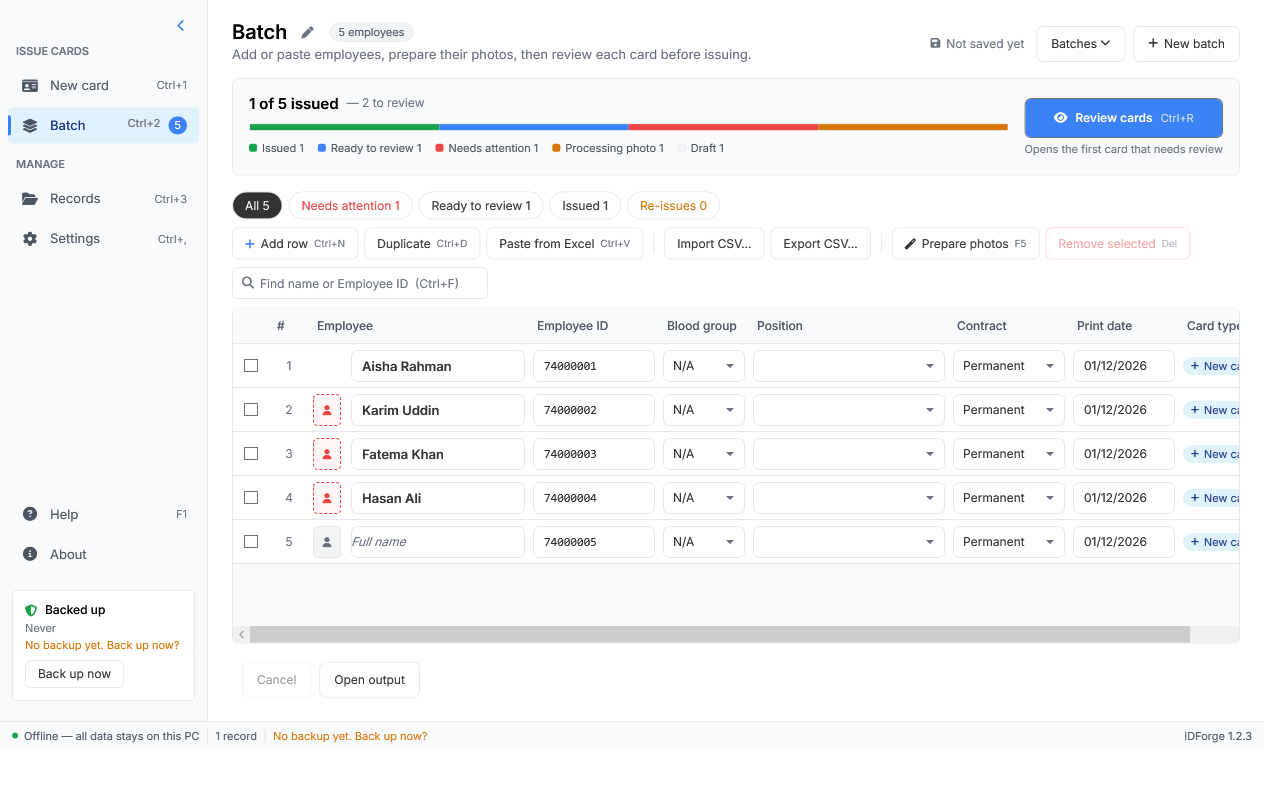
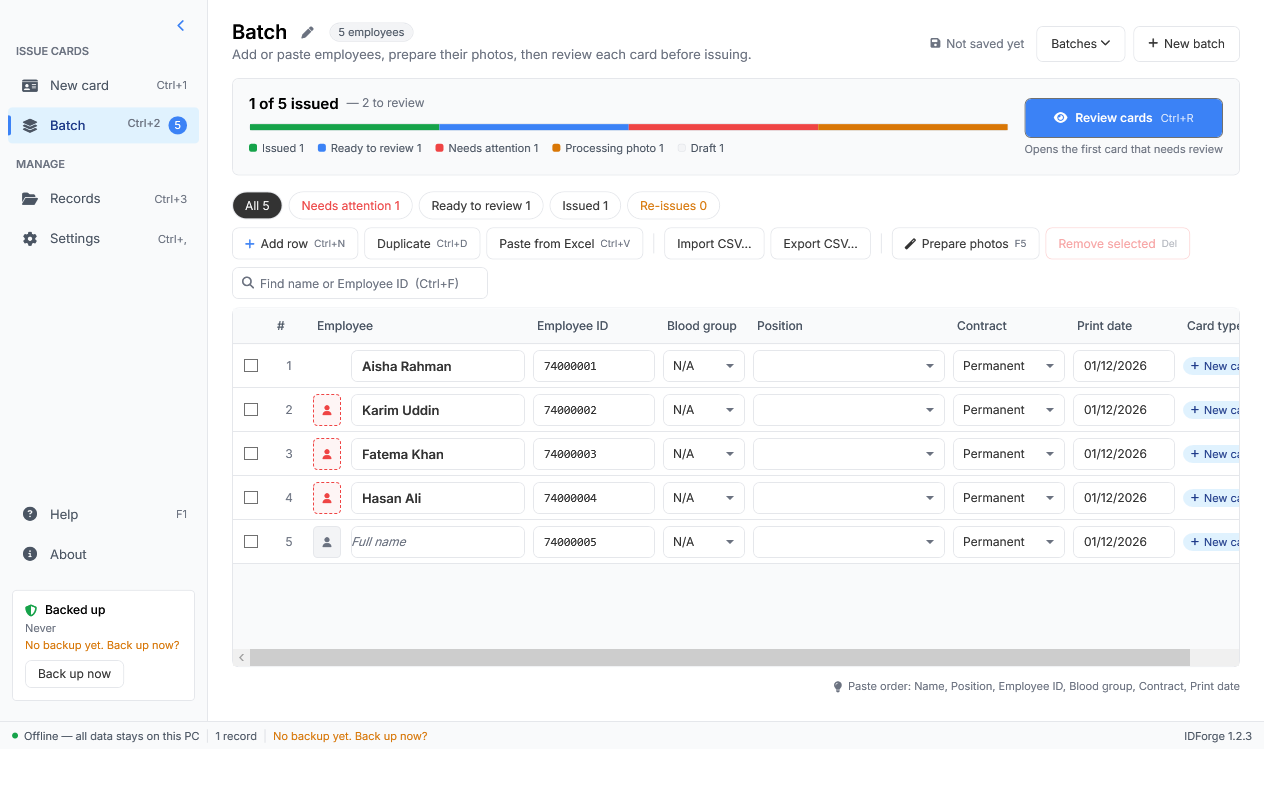
Batch parity D: footer, status-bar photo progress, responsive stacking
- Footer: "Showing N of M · K selected" only while filter/search active,
  paste-order tip on the right; cancel/open-output/progress moved out
- Status bar: "Preparing photos: N of M" + spinner + cancel during photo prep
- Progress card stacks Review under counts below 1100 px (UpdateBatchProgressLayout)
- New test Batch_Footer_StatusBar_And_Responsive + batch-footer-860x620.png

Generated with [Devin](https://devin.ai)

Changed region(s): [[0.1875, 0.7919, 0.9688, 0.8832]]

diff --git a/src/IDForge/MainWindow.xaml b/src/IDForge/MainWindow.xaml
@@ -1205,8 +1205,18 @@
                     <Border Grid.Row="1" x:Name="PnlBatchProgress" Margin="24,0,24,16" Padding="16"
                             CornerRadius="6" Background="{StaticResource PanelLightBrush}"
                             BorderBrush="{StaticResource BorderBrush}" BorderThickness="1">
-                        <DockPanel>
-                            <StackPanel DockPanel.Dock="Right" VerticalAlignment="Center" Margin="16,0,0,0">
+                        <Grid x:Name="GridBatchProgress">
+                            <Grid.RowDefinitions>
+                                <RowDefinition Height="Auto"/>
+                                <RowDefinition Height="Auto"/>
+                            </Grid.RowDefinitions>
+                            <Grid.ColumnDefinitions>
+                                <ColumnDefinition Width="*"/>
+                                <ColumnDefinition Width="Auto"/>
+                            </Grid.ColumnDefinitions>
+                            <StackPanel x:Name="PnlBatchReview" Grid.Column="1"
+                                        VerticalAlignment="Center" Margin="16,0,0,0"
+                                        HorizontalAlignment="Right">
                                 <Button x:Name="BtnReview" Style="{StaticResource PrimaryButton}"
                                         Click="BatchReview_Click">
                                     <StackPanel Orientation="Horizontal">
@@ -1221,7 +1231,7 @@
                                            FontSize="11" Foreground="{StaticResource MutedBrush}"
                                            HorizontalAlignment="Right" Margin="0,4,0,0"/>
                             </StackPanel>
-                            <StackPanel>
+                            <StackPanel x:Name="PnlCountsBlock" Grid.Row="0" Grid.Column="0">
                                 <StackPanel Orientation="Horizontal" VerticalAlignment="Bottom">
                                     <TextBlock x:Name="TxtIssuedCount" Text="No rows yet" FontSize="15"
                                                FontWeight="SemiBold"/>
@@ -1246,7 +1256,7 @@
                                 </Border>
                                 <WrapPanel x:Name="PnlBatchLegend" Margin="0,10,0,0"/>
                             </StackPanel>
-                        </DockPanel>
+                        </Grid>
                     </Border>
 
                     <!-- compat status line (old bottom bar text) -->
@@ -1586,14 +1596,23 @@
                         </DataGrid.Columns>
                     </DataGrid>
                     </Border>
-                    <StackPanel Grid.Row="5" Orientation="Horizontal" Margin="8,6,8,4" VerticalAlignment="Center">
+                    <!-- ===== BATCH FOOTER (§2.9) ===== -->
+                    <Grid Grid.Row="5" Margin="24,0,24,8">
+                        <Grid.ColumnDefinitions>
+                            <ColumnDefinition Width="*"/>
+                            <ColumnDefinition Width="Auto"/>
+                        </Grid.ColumnDefinitions>
                         <TextBlock x:Name="TxtBatchShowing" VerticalAlignment="Center" FontSize="12"
-                                   Foreground="{StaticResource SecondaryTextBrush}" Margin="0,0,12,0"/>
-                        <Button Content="Cancel" Click="BatchCancel_Click" Margin="14,0,0,0" IsEnabled="False" x:Name="BtnBatchCancel"/>
-                        <Button Content="Open output" Click="BatchOpenOutput_Click" Margin="8,0,0,0"/>
-                        <ProgressBar x:Name="BatchProgress" Width="200" Height="14" Margin="16,0,0,0"
-                                     Minimum="0" Maximum="100" Visibility="Collapsed"/>
-                    </StackPanel>
+                                   Foreground="{StaticResource SecondaryTextBrush}"/>
+                        <StackPanel Grid.Column="1" Orientation="Horizontal" VerticalAlignment="Center">
+                            <TextBlock Text="&#xF0EB;" FontFamily="{StaticResource IconFont}" FontSize="11"
+                                       Foreground="{StaticResource MutedBrush}" Margin="0,0,6,0"
+                                       VerticalAlignment="Center"/>
+                            <TextBlock Text="Paste order: Name, Position, Employee ID, Blood group, Contract, Print date"
+                                       FontSize="11" Foreground="{StaticResource MutedBrush}"
+                                       VerticalAlignment="Center"/>
+                        </StackPanel>
+                    </Grid>
                     <TextBlock x:Name="TxtBatchLog" Grid.Row="6" Margin="8,0,8,6" Foreground="{StaticResource MutedBrush}"
                                TextWrapping="Wrap" FontSize="11"/>
                 </Grid>
@@ -1885,6 +1904,24 @@
                                 Content="&#x2715;" FontSize="11" Height="20" Width="22" Padding="0"
                                 Margin="4,0,0,0" VerticalAlignment="Center"
                                 Visibility="Collapsed" Click="StatusMsgClose_Click"/>
+                    </StackPanel>
+                    <!-- §2.9/D10: photo preparation progress lives in the status bar -->
+                    <StackPanel x:Name="PnlStatusPhotos" Orientation="Horizontal"
+                                Visibility="Collapsed" Margin="10,0,0,0">
+                        <TextBlock Text="  |  " Foreground="{StaticResource BorderBrush}" FontSize="11"/>
+                        <TextBlock x:Name="TxtStatusSpinner" Text="&#xF110;" FontFamily="{StaticResource IconFont}" FontSize="11"
+                                   Foreground="{StaticResource WarningBrush}"
+                                   VerticalAlignment="Center" Margin="0,0,6,0">
+                            <TextBlock.RenderTransform>
+                                <RotateTransform CenterX="5.5" CenterY="5.5"/>
+                            </TextBlock.RenderTransform>
+                        </TextBlock>
+                        <TextBlock x:Name="TxtStatusPhotos" Text="Preparing photos: 0 of 0"
+                                   VerticalAlignment="Center" FontSize="11"
+                                   Foreground="{StaticResource SecondaryTextBrush}"/>
+                        <Button x:Name="BtnCancelPhotos" Content="Cancel" Click="BatchCancel_Click"
+                                Style="{StaticResource GhostButton}" FontSize="11" Height="20"
+                                Padding="8,0" Margin="8,0,0,0" VerticalAlignment="Center"/>
                     </StackPanel>
                 </StackPanel>
             </DockPanel>

diff --git a/tests/IDForge.Tests/BatchParityTests.cs b/tests/IDForge.Tests/BatchParityTests.cs
@@ -746,4 +746,82 @@ public class BatchParityTests
             finally { SettleThenClose(win2); }
         });
     }
+
+    [Fact]
+    public void Batch_Footer_StatusBar_And_Responsive()
+    {
+        WpfSta.Run(() =>
+        {
+            // 860x620: footer inside window, progress card stacks review below counts,
+            // status-bar photo progress hidden, footer shot saved.
+            var win = NewShownBatch(860, 620);
+            try
+            {
+                AddRow(win, "75000011", "Nusrat Jahan", "NeedsReview");
+                AddRow(win, "75000012", "Tanvir Hasan", "Failed");
+                win.UpdateBatchSummary();
+                win.UpdateLayout();
+
+                foreach (var name in new[] { "TxtBatchShowing", "PnlStatusPhotos" })
+                {
+                    var el = win.FindName(name) as FrameworkElement;
+                    Assert.True(el != null, $"{name} missing");
+                }
+
+                // Stacked progress card: review panel sits below the counts block.
+                var review = win.FindName("PnlBatchReview") as FrameworkElement;
+                var counts = win.FindName("PnlCountsBlock") as FrameworkElement;
+                Assert.True(review != null && counts != null, "progress card panels missing");
+                var rReview = OnScreenRect(review!, win);
+                var rCounts = OnScreenRect(counts!, win);
+                Assert.True(rReview.Top >= rCounts.Bottom - 1,
+                    $"review should stack below counts at 860: {rReview} vs {rCounts}");
+
+                // Footer: no showing text until a filter/search is active.
+                var showing = win.FindName("TxtBatchShowing") as TextBlock;
+                Assert.Equal("", showing!.Text);
+                var chip = win.FindName("ChkFilterAttention") as RadioButton;
+                chip!.IsChecked = true;
+                win.UpdateLayout();
+                Assert.Contains("Showing 1 of 2", showing.Text);
+                Assert.Contains("Needs attention", chip.Content!.ToString());
+
+                (win.FindName("ChkFilterAll") as RadioButton)!.IsChecked = true;
+                win.UpdateLayout();
+                Assert.Equal("", showing.Text);
+                Directory.CreateDirectory(ShotsDir());
+                SaveWindow(win, Path.Combine(ShotsDir(), "batch-footer-860x620.png"));
+            }
+            finally { SettleThenClose(win); }
+
+            // 1280x800: progress card side-by-side (review right of counts).
+            var win2 = NewShownBatch(1280, 800);
+            try
+            {
+                AddRow(win2, "75000021", "Aisha Rahman", "NeedsReview");
+                win2.UpdateBatchSummary();
+                win2.UpdateLayout();
+                var review2 = win2.FindName("PnlBatchReview") as FrameworkElement;
+                var counts2 = win2.FindName("PnlCountsBlock") as FrameworkElement;
+                var rR = OnScreenRect(review2!, win2);
+                var rC = OnScreenRect(counts2!, win2);
+                Assert.True(rR.Left > rC.Left || rR.Top < rC.Top,
+                    "progress card should be side-by-side at 1280");
+                Assert.True(rR.Top <= rC.Bottom, "review should overlap counts row at 1280");
+            }
+            finally { SettleThenClose(win2); }
+
+            // Status-bar photo progress appears only while preparing.
+            var win3 = NewShownBatch(1280, 800);
+            try
+            {
+                var pnl = win3.FindName("PnlStatusPhotos") as FrameworkElement;
+                var spinner = win3.FindName("TxtStatusSpinner") as FrameworkElement;
+                var txt = win3.FindName("TxtStatusPhotos") as TextBlock;
+                Assert.True(pnl != null && txt != null && spinner != null, "status photo controls missing");
+                Assert.Equal(Visibility.Collapsed, pnl!.Visibility);
+            }
+            finally { SettleThenClose(win3); }
+        });
+    }
 }

diff --git a/src/IDForge/MainWindow.xaml.cs b/src/IDForge/MainWindow.xaml.cs
@@ -1214,6 +1214,8 @@ public partial class MainWindow : Window
     internal void Window_SizeChanged(object sender, SizeChangedEventArgs e)
     {
         UpdateNewCardColumns();
+        UpdateBatchToolbarLayout();
+        UpdateBatchProgressLayout();
         if (!_navManual && ActualWidth < 1100 != _navCollapsed)
             SetNavCollapsed(ActualWidth < 1100);
         else
@@ -1470,6 +1472,9 @@ public partial class MainWindow : Window
             else
                 rt.Angle = 0;
         }
+        if (TxtStatusSpinner?.RenderTransform is RotateTransform srt)
+            srt.Angle = PnlStatusPhotos.IsVisible
+                ? (srt.Angle + 36) % 360 : 0;
     }
 
     private static IEnumerable<DependencyObject> VisualDescendants(DependencyObject root)
@@ -3313,6 +3318,19 @@ public partial class MainWindow : Window
         BtnRemoveSelected.IsEnabled = sel > 0;
     }
 
+    /// <summary>§3: below 1100 px the progress card stacks Review under the counts.</summary>
+    private void UpdateBatchProgressLayout()
+    {
+        if (GridBatchProgress == null || PnlBatchReview == null || PnlCountsBlock == null) return;
+        var narrow = ActualWidth < 1100;
+        Grid.SetRow(PnlBatchReview, narrow ? 1 : 0);
+        Grid.SetColumn(PnlBatchReview, narrow ? 0 : 1);
+        Grid.SetColumnSpan(PnlCountsBlock, narrow ? 2 : 1);
+        PnlBatchReview.HorizontalAlignment = narrow
+            ? HorizontalAlignment.Left : HorizontalAlignment.Right;
+        PnlBatchReview.Margin = narrow ? new Thickness(0, 10, 0, 0) : new Thickness(16, 0, 0, 0);
+    }
+
     /// <summary>§3: the search box drops below the buttons at narrow widths.</summary>
     private void UpdateBatchToolbarLayout()
     {
@@ -3435,8 +3453,8 @@ public partial class MainWindow : Window
         _batchLog.Add($"Photo processing started {DateTime.Now:yyyy-MM-dd HH:mm:ss} — {withPhoto.Count} rows");
         _batchCts = new CancellationTokenSource();
         BtnPreparePhotos.IsEnabled = false;
-        BtnBatchCancel.IsEnabled = true;
-        BatchProgress.Visibility = Visibility.Visible;
+        PnlStatusPhotos.Visibility = Visibility.Visible;
+        TxtStatusPhotos.Text = $"Preparing photos: 0 of {withPhoto.Count}";
         TxtBatchStatus.Text = $"Preparing photos for {withPhoto.Count} row(s)...";
         try
         {
@@ -3452,8 +3470,7 @@ public partial class MainWindow : Window
         finally
         {
             BtnPreparePhotos.IsEnabled = true;
-            BtnBatchCancel.IsEnabled = false;
-            BatchProgress.Visibility = Visibility.Collapsed;
+            PnlStatusPhotos.Visibility = Visibility.Collapsed;
             WriteBatchLog();
             UpdateBatchSummary();
         }
@@ -3467,12 +3484,7 @@ public partial class MainWindow : Window
         {
             ct.ThrowIfCancellationRequested();
             row.Status = "Processing";
-            if (done > 0)
-            {
-                var avg = sw.Elapsed.TotalSeconds / done;
-                var eta = TimeSpan.FromSeconds(avg * (rows.Count - done));
-                TxtBatchStatus.Text = $"Preparing photos: {done} of {rows.Count}, about {eta.TotalSeconds:F0} seconds left";
-            }
+            TxtStatusPhotos.Text = $"Preparing photos: {done} of {rows.Count}";
             DgBatch.Items.Refresh();
             try
             {
@@ -3512,7 +3524,7 @@ public partial class MainWindow : Window
             }
             PersistBatchRow(row);
             done++;
-            BatchProgress.Value = done * 100.0 / rows.Count;
+            TxtStatusPhotos.Text = $"Preparing photos: {done} of {rows.Count}";
             DgBatch.Items.Refresh();
         }
     }

diff --git a/docs/redesign/shots/batch-traceability.md b/docs/redesign/shots/batch-traceability.md
@@ -13,11 +13,11 @@ Status: ✅ done · 🚧 in progress · ⬜ not done.
 | D3 | Photo column removed; thumbnail in Employee cell; placeholder opens Browse | `DgBatch` Employee column (`ImgRowThumb`→`Thumb`, red/grey placeholders → `BatchPlaceholder_Click`) | `Batch_Photo_Placeholder_And_Thumbnail`, `Batch_Grid_Columns_Order_Matches_Plan` | batch-grid | ✅ |
 | D4 | Blood group kept as column after Employee ID | `DgBatch` column order (Select, #, Employee, Employee ID, Blood group, …) | `Batch_Grid_Columns_Order_Matches_Plan`, `Blood_Group_Column_Sits_After_Employee_Id` | batch-grid | ✅ |
 | D5 | Chips: All, Needs attention, Ready to review, Issued, Re-issues; All dark when selected (override 6) | `BatchFilterChip` style, `ChkFilter*` radios, `UpdateBatchChips` | `Batch_Chips_Counts_Match_Grid` | batch-toolbar, batch-filter-attention | ✅ |
-| D6 | Grid scrolls, no paging; "Showing N of M" only while filter/search active | `TxtBatchShowing`, `BatchRowFilter`, `TxtBatchSearch`, `UpdateBatchFooter` | `Batch_Chips_Counts_Match_Grid`, `Batch_Search_Filters_Grid_And_CtrlF` | batch-footer | 🚧 |
+| D6 | Grid scrolls, no paging; "Showing N of M" only while filter/search active | `TxtBatchShowing`, `BatchRowFilter`, `TxtBatchSearch`, `UpdateBatchFooter` | `Batch_Chips_Counts_Match_Grid`, `Batch_Search_Filters_Grid_And_CtrlF`, `Batch_Footer_StatusBar_And_Responsive` | batch-footer | ✅ |
 | D7 | Paste/CSV order: Name, Position, Employee ID, Blood, Contract, Print date; CSV photo column after | `BatchValidator.Parse` | `Batch_Paste_Order_And_Csv_Photo` | — (behaviour) | 🚧 |
 | D8 | Batch badge blue when Batch active, grey w/ count otherwise | `UpdateBatchBadge` (existing) | `Nav_Batch_Badge_Blue_When_Active` | batch-header | ✅ exists |
 | D9 | Search "Find name or Employee ID (Ctrl+F)" at right of toolbar | `TxtBatchSearch`, Ctrl+F in `TryHandleShortcut` | `Batch_Search_Filters_Grid_And_CtrlF` | batch-toolbar | ✅ |
-| D10 | Status bar "Preparing photos: N of M" + spinner while processing; cancel beside | `PnlStatusPhotos`, `TxtStatusPhotos`, `BtnCancelPhotos` | `Batch_StatusBar_Photo_Progress` | batch-header (state) | 🚧 |
+| D10 | Status bar "Preparing photos: N of M" + spinner while processing; cancel beside | `PnlStatusPhotos`, `TxtStatusPhotos`, `BtnCancelPhotos`, `TxtStatusSpinner` | `Batch_Footer_StatusBar_And_Responsive` | batch-header (state) | ✅ |
 | D11 | Window title "IDForge — Batch: <name>" | `UpdateWindowTitle` on `ShowArea`/rename | `Batch_Window_Title_Shows_Batch_Name` | — | ✅ |
 | D12 | Re-issue message "Replaces card issued dd/MM/yyyy. New validity until dd/MM/yyyy." | `RefreshBatchDerived` | `Batch_Reissue_Message_Wording` | batch-grid | 🚧 |
 
@@ -33,15 +33,15 @@ Status: ✅ done · 🚧 in progress · ⬜ not done.
 | §2.6 | Columns: Select/#/Employee(star,min220)/EmployeeID 130/Blood 90/Position 200/Contract 120/Print date 110/Card type pill 110/Status pill 130/Message(star,min200); red ID border when invalid | `DgBatch` columns, `GridInput` style, `UidInvalidBrush`, placeholders | `Batch_Grid_Columns_Order_Matches_Plan`, `Batch_Uid_Invalid_Red_Border_And_Message`, `Batch_Photo_Placeholder_And_Thumbnail` | batch-grid | ✅ |
 | §2.7 | Status pills per state (icon+label+colours); card-type pills; processing spinner | inline pill templates, `StatusPill*`/`CardTypePill*` props, `_spinnerTimer`/`SpinBatchIcons` | `Batch_Status_Pills_Per_State` | batch-grid | ✅ |
 | §2.8 | Message column: secondary text, red errors w/ links, re-issue wording, "Duplicate of row N", "Missing: …", empty rows blank | `TxtRowMessage`→Message cell (`MessageBrush`, `ShowAddPhotoLink`→`BatchAddPhotoLink_Click`), `RefreshBatchDerived` | `Batch_Reissue_Message_Shows_Previous_And_New_Dates`, `Batch_Uid_Invalid_Red_Border_And_Message` | batch-grid | ✅ |
-| §2.9 | Footer "Showing N of M · K selected" / tip right; status bar photo progress; "Open output" into Batches menu | `PnlBatchFooter`, `TxtBatchTip`; `BtnOpenOutput` in Batches menu | `Batch_Footer_And_Tip` | batch-footer-860x620 | 🚧 |
+| §2.9 | Footer "Showing N of M · K selected" / tip right; status bar photo progress; "Open output" into Batches menu | footer Grid row 5 (`TxtBatchShowing` + paste-order tip); `PnlStatusPhotos`/`TxtStatusPhotos`/`BtnCancelPhotos`; "Open output folder" item in `BtnBatches_Click` menu | `Batch_Footer_StatusBar_And_Responsive`, `Batch_Toolbar_And_Filter_Screenshots` | batch-footer-860x620 | ✅ |
 
 ## Responsive (§3)
 
 | Rule | Implementation | Test | Shot | Status |
 |---|---|---|---|---|
-| Min 860×620; grid only sideways scroller | `MinWidth=1080` inside border | bounds tests @860 | batch-header-860x620, batch-footer-860x620 | 🚧 |
+| Min 860×620; grid only sideways scroller | `MinWidth=1080` inside border | bounds tests @860 | batch-header-860x620, batch-footer-860x620 | ✅ |
 | Toolbar wraps before clipping; search drops below | `WrapPanel` toolbar (`PnlBatchButtons`, `PnlBatchSearch` Grid row) | `Batch_Toolbar_And_Chips_Inside_Window_At_All_Sizes` | batch-toolbar | ✅ |
-| Progress card stacks Review under counts <1100px | `UpdateProgressLayout` size handler | `Batch_Progress_Stacks_Under_1100` | batch-header-860x620 | 🚧 |
+| Progress card stacks Review under counts <1100px | `UpdateBatchProgressLayout` size handler | `Batch_Footer_StatusBar_And_Responsive` | batch-header-860x620, batch-footer-860x620 | ✅ |
 | Status bar version+About at every size | existing shell | existing tests | all shots | ✅ |
 
 ## Overrides (prompt)
@@ -70,7 +70,7 @@ Status: ✅ done · 🚧 in progress · ⬜ not done.
 | Ctrl+F search | `TryHandleShortcut` Ctrl+F → `TxtBatchSearch.Focus()` | `Batch_Search_Filters_Grid_And_CtrlF` | ✅ |
 | Batch badge blue when active | `UpdateBatchBadge` | `Nav_Batch_Badge_*` | ✅ |
 | Window title | `UpdateWindowTitle`/`UpdateTitle` on `ShowArea`/rename | `Batch_Window_Title_Shows_Batch_Name` | ✅ |
-| Status bar photo progress | `PnlStatusPhotos` | `Batch_StatusBar_Photo_Progress` | 🚧 |
+| Status bar photo progress | `PnlStatusPhotos`, `TxtStatusPhotos`, `BtnCancelPhotos`, `TxtStatusSpinner` | `Batch_Footer_StatusBar_And_Responsive` | ✅ |
 | "Showing N of M" only when filtered | `UpdateBatchFooter` (`TxtBatchShowing`, selected count) | `Batch_Chips_Counts_Match_Grid` | ✅ (filter part; selected-count text Part D) |
 | Grid scrolls not pages | DataGrid + `ScrollViewer.HorizontalScrollBarVisibility=Auto`, MinWidth 1080 | `Batch_Grid_Columns_Order_Matches_Plan` | ✅ |
 
@@ -83,7 +83,7 @@ Status: ✅ done · 🚧 in progress · ⬜ not done.
 | batch-toolbar-1280x800.png | toolbar+chips+search | ✅ |
 | batch-grid-1280x800.png | grid/pills/thumbs/messages | ✅ |
 | batch-grid-1100x700.png | grid at mid width | ✅ |
-| batch-footer-860x620.png | footer/status bar | ⬜ |
+| batch-footer-860x620.png | footer/status bar | ✅ |
 | batch-locked-1280x800.png | Issue batch locked + hint | ⬜ |
 | batch-unlocked-1280x800.png | Issue batch enabled | ⬜ |
 | batch-filter-attention-1280x800.png | Needs attention chip + Showing N of M | ✅ |
